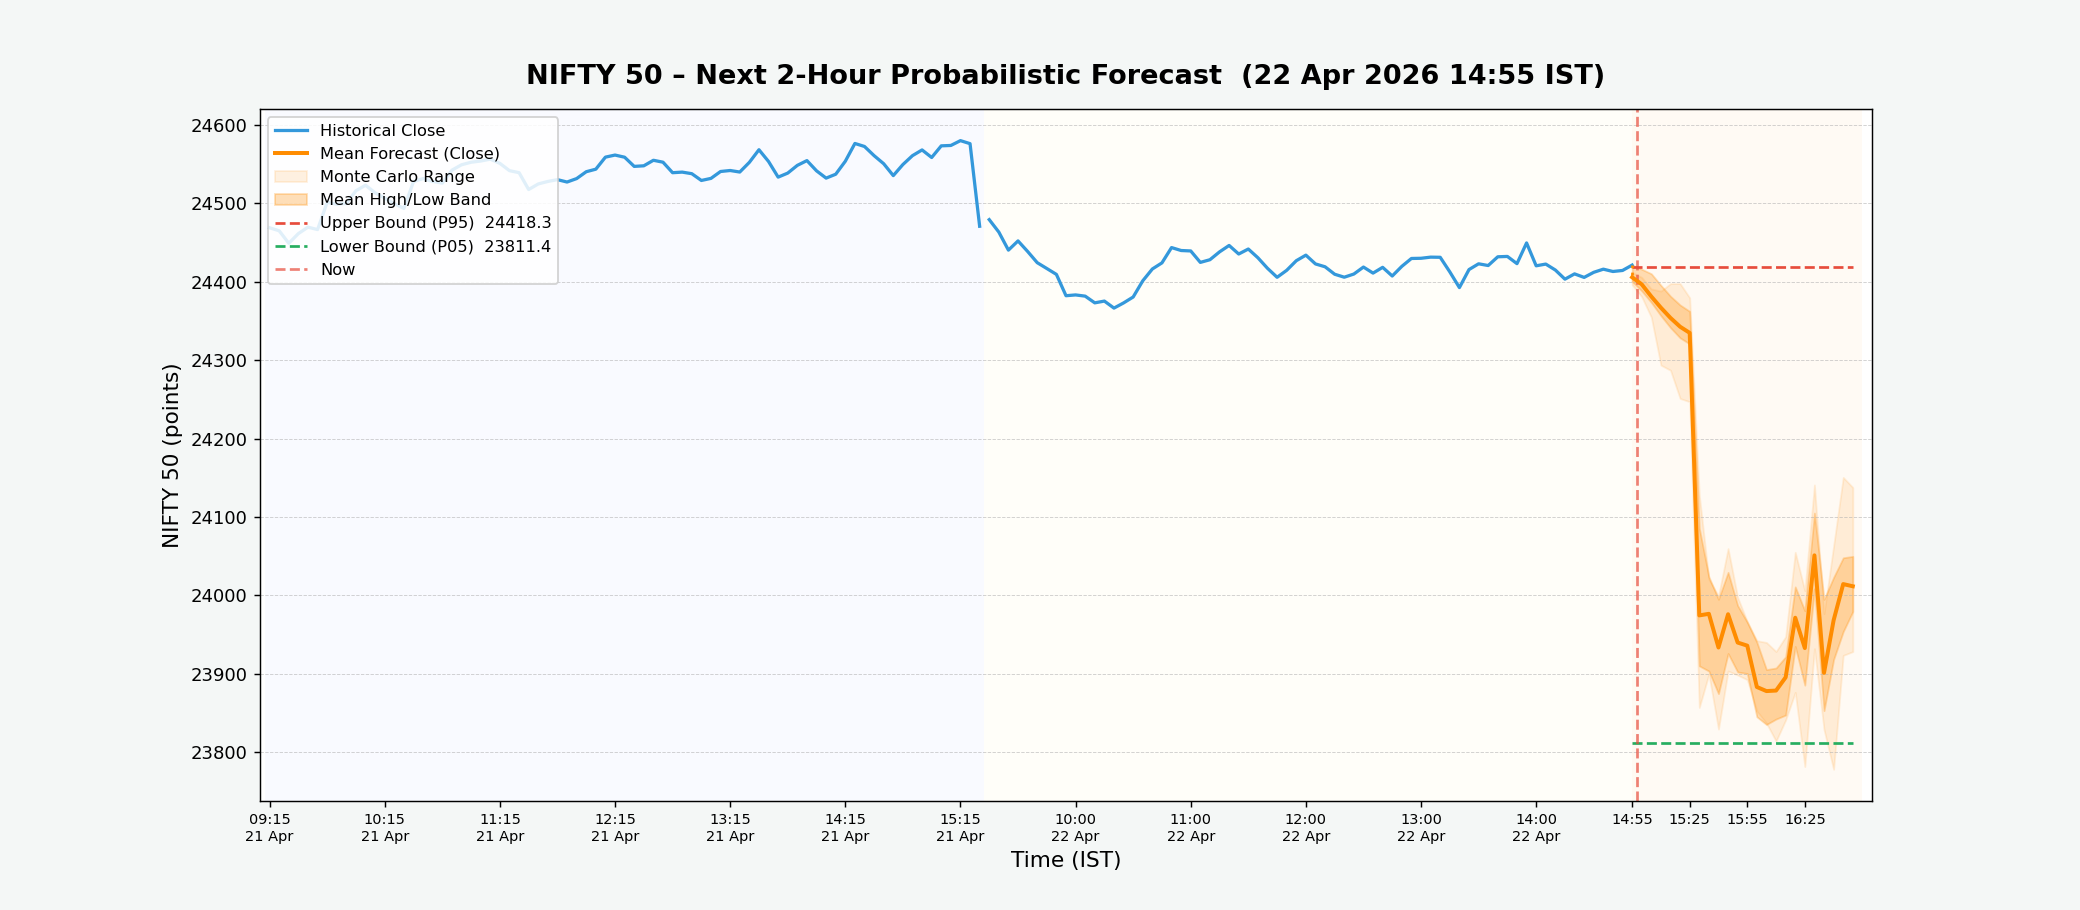
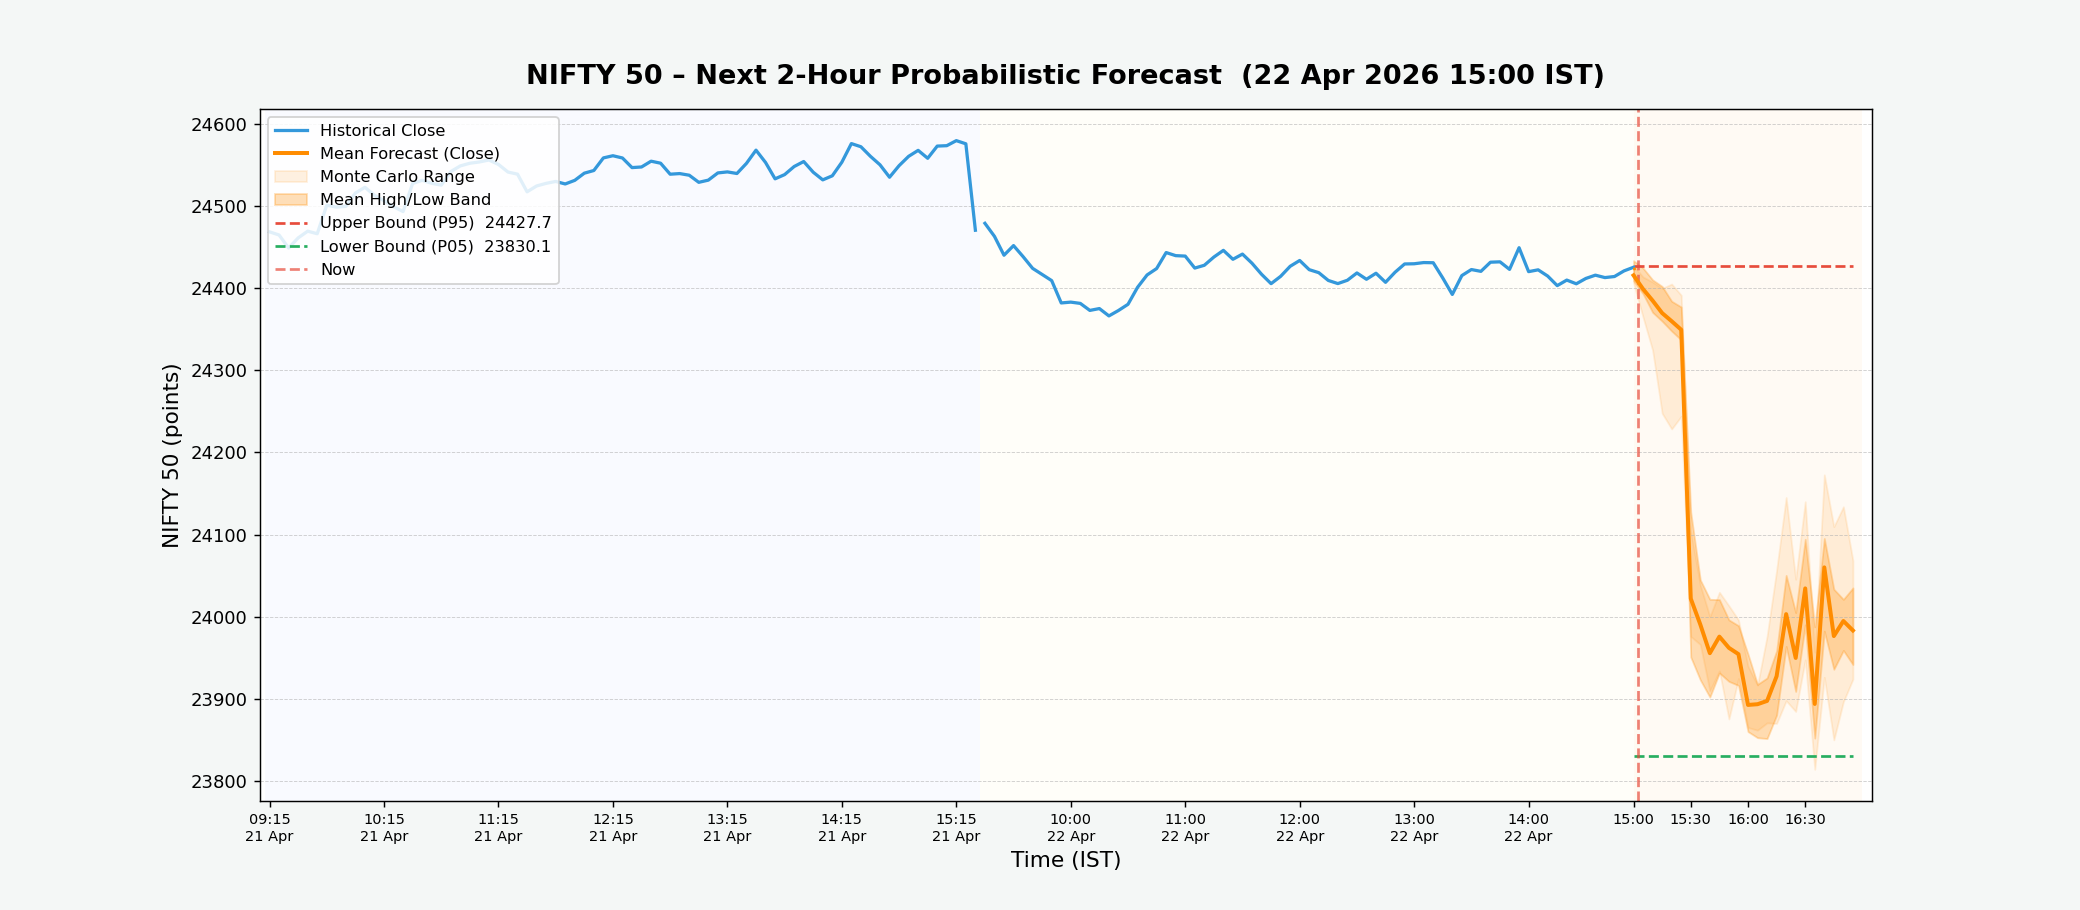
NIFTY forecast update – 2026-04-22 15:00 IST

diff --git a/index.html b/index.html
@@ -24,29 +24,29 @@
 
         <!-- Timestamp bar -->
         <div class="timestamp-bar">
-            <span>Last updated (IST):&nbsp;<strong id="update-time">2026-04-22 14:55:05</strong></span>
+            <span>Last updated (IST):&nbsp;<strong id="update-time">2026-04-22 15:00:04</strong></span>
         </div>
 
         <!-- Metric cards -->
         <div class="metrics-container">
             <div class="metric-card bullish">
                 <div class="metric-label">Bullish Bar Ratio</div>
-                <div class="metric-value" id="upside-prob">32.5%</div>
+                <div class="metric-value" id="upside-prob">31.2%</div>
                 <div class="metric-sub">Next 2h · close &gt; open %</div>
             </div>
             <div class="metric-card upper">
                 <div class="metric-label">Upper Bound</div>
-                <div class="metric-value" id="upper-bound">24418.3</div>
+                <div class="metric-value" id="upper-bound">24427.7</div>
                 <div class="metric-sub">Max predicted high</div>
             </div>
             <div class="metric-card lower">
                 <div class="metric-label">Lower Bound</div>
-                <div class="metric-value" id="lower-bound">23811.4</div>
+                <div class="metric-value" id="lower-bound">23830.1</div>
                 <div class="metric-sub">Min predicted low</div>
             </div>
             <div class="metric-card range">
                 <div class="metric-label">Predicted Range</div>
-                <div class="metric-value" id="pred-range">606.9 pts</div>
+                <div class="metric-value" id="pred-range">597.6 pts</div>
                 <div class="metric-sub">Upper − Lower spread</div>
             </div>
         </div>
